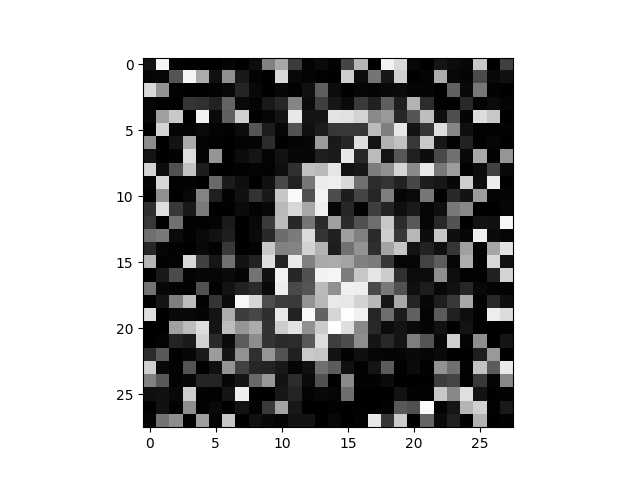
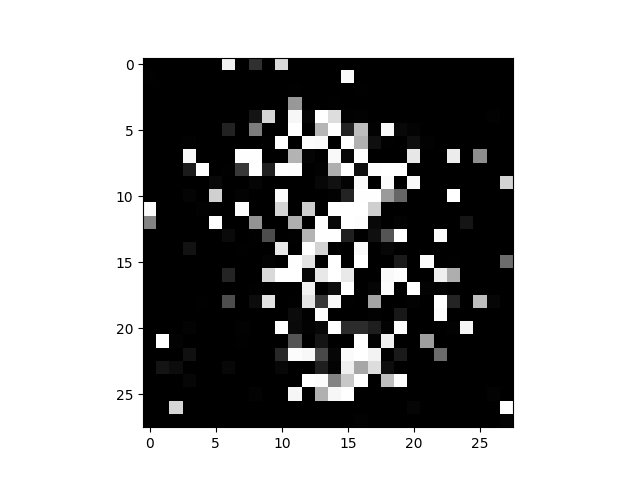
update first layer dummy generator

Changed region(s): [[0.2188, 0.125, 0.8125, 0.9062]]

diff --git a/src/train/dummy.py b/src/train/dummy.py
@@ -11,11 +11,13 @@ class Generator(nn.Module):
     def __init__(self):
         super(Generator, self).__init__()
         self.model = nn.Sequential(
-            nn.Linear(100, 256),
+            nn.Linear(128, 256),
             nn.ReLU(),
             nn.Linear(256, 512),
             nn.ReLU(),
-            nn.Linear(512, 784),
+            nn.Linear(512, 1024),
+            nn.ReLU(),
+            nn.Linear(1024, 784),
             nn.Tanh(),
         )
 
@@ -78,7 +80,7 @@ for epoch in range(epochs):
         loss_real = criterion(outputs, real_labels)
 
         # Crear ruido y generar imágenes falsas
-        noise = torch.randn(batch_size, 100)
+        noise = torch.randn(batch_size, 128)
         fake_images = G(noise)
 
         # Salidas para las imágenes falsas
